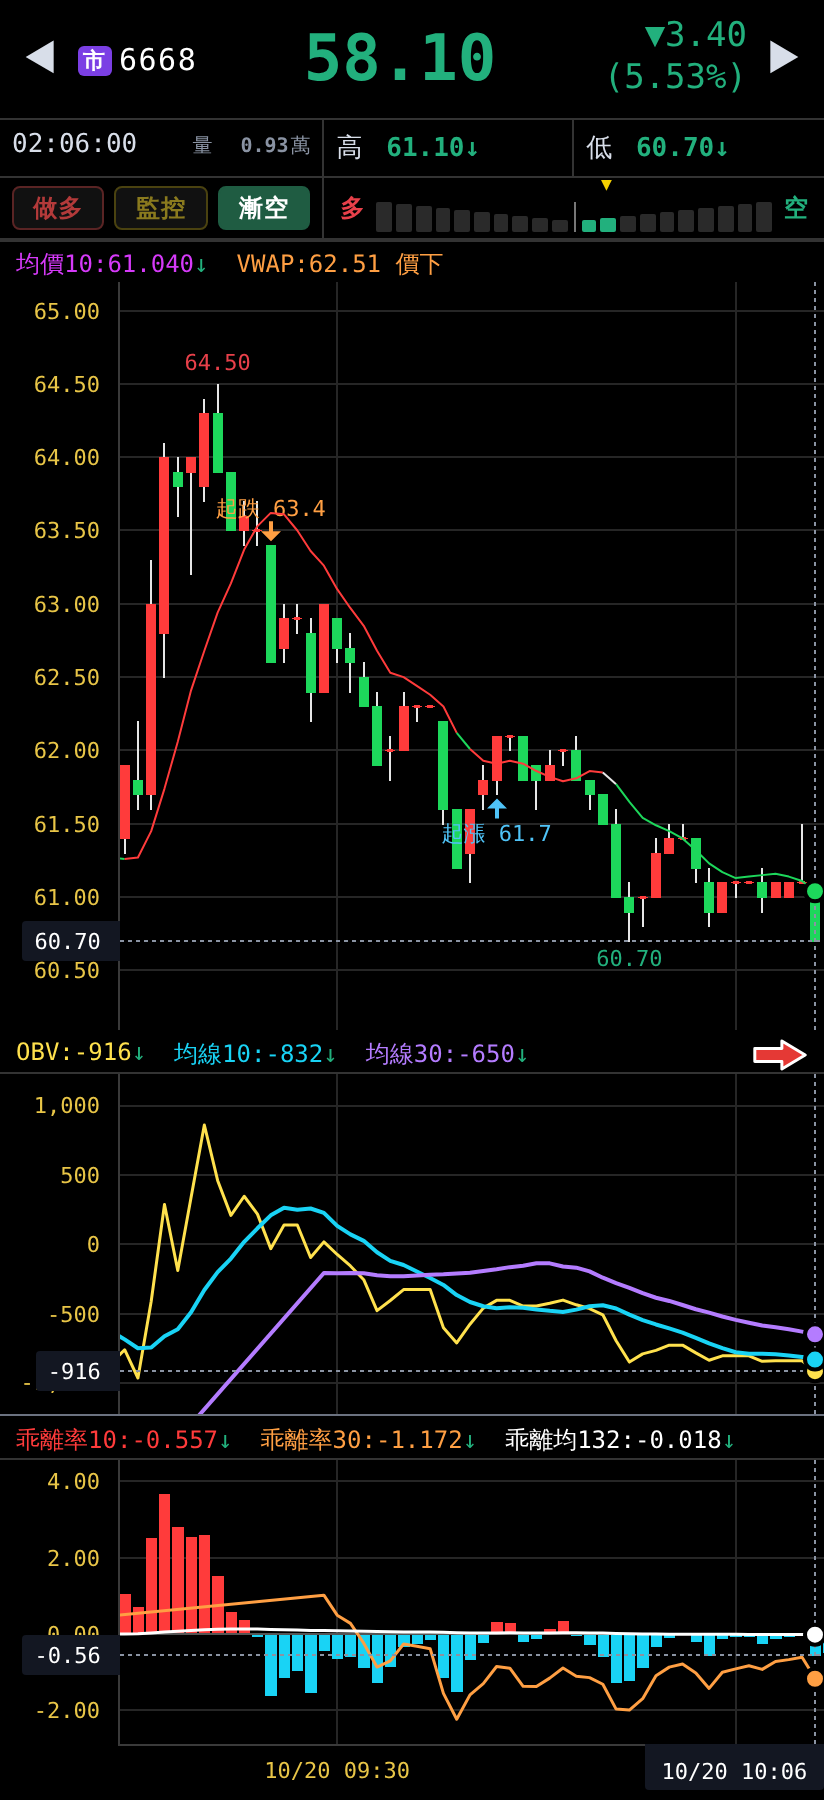
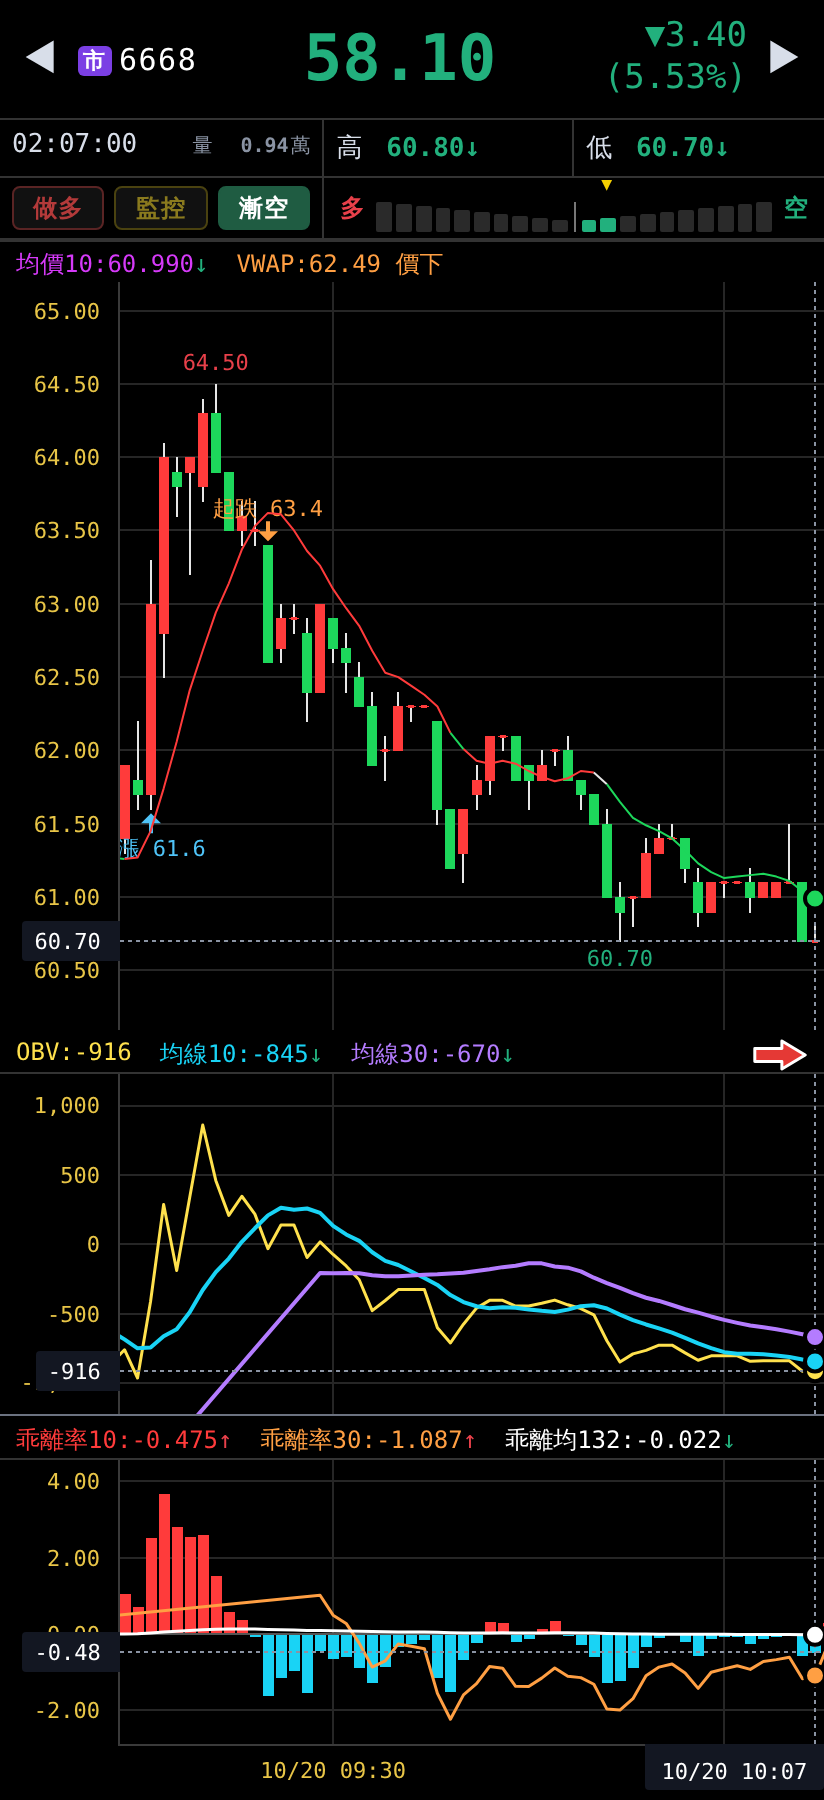
起漲 / 起跌點的 K 穿越改用整根 K(使用者:「起跌點 K 棒取最高交易價格,起漲點取 K 棒最低價格,9:42 K 棒最低價格沒有超越均線」):App 標示與模擬器起跌點停損同步;版本戳 202610201640,Android 同步
Claude-Session: https://claude.ai/code/session_01UoXYHcjf8LWpsGmHYi137z

diff --git a/tools/backtest/sim_day.py b/tools/backtest/sim_day.py
@@ -71,7 +71,9 @@ def _origin_stop(sd, upto):
         _order = list(range(max(1, _x+1), upto+1)) + list(range(upto, 0, -1))
     for j in _order:
         if np.isnan(ma[j]) or np.isnan(ma[j-1]): continue
-        if not ((c[j]-ma[j])*sd > 0 and (c[j-1]-ma[j-1])*sd <= 0): continue
+        _kin = (lambda q: l[q] > ma[q]) if sd == 1 else (lambda q: h[q] < ma[q])   # 2026-10-20 使用者:起跌點用 K 最高價、起漲點用 K 最低價(整根 K 穿過均價才算)
+        if os.environ.get('STOPKBAR','whole') == 'close': _kin = lambda q: (c[q]-ma[q])*sd > 0
+        if not (_kin(j) and not _kin(j-1)): continue
         for k in range(max(1, j-XW), min(upto, j+XW)+1):
             if np.isnan(obma[k]) or np.isnan(obma[k-1]): continue
             if (ob[k]-obma[k])*sd > 0 and (ob[k-1]-obma[k-1])*sd <= 0:
